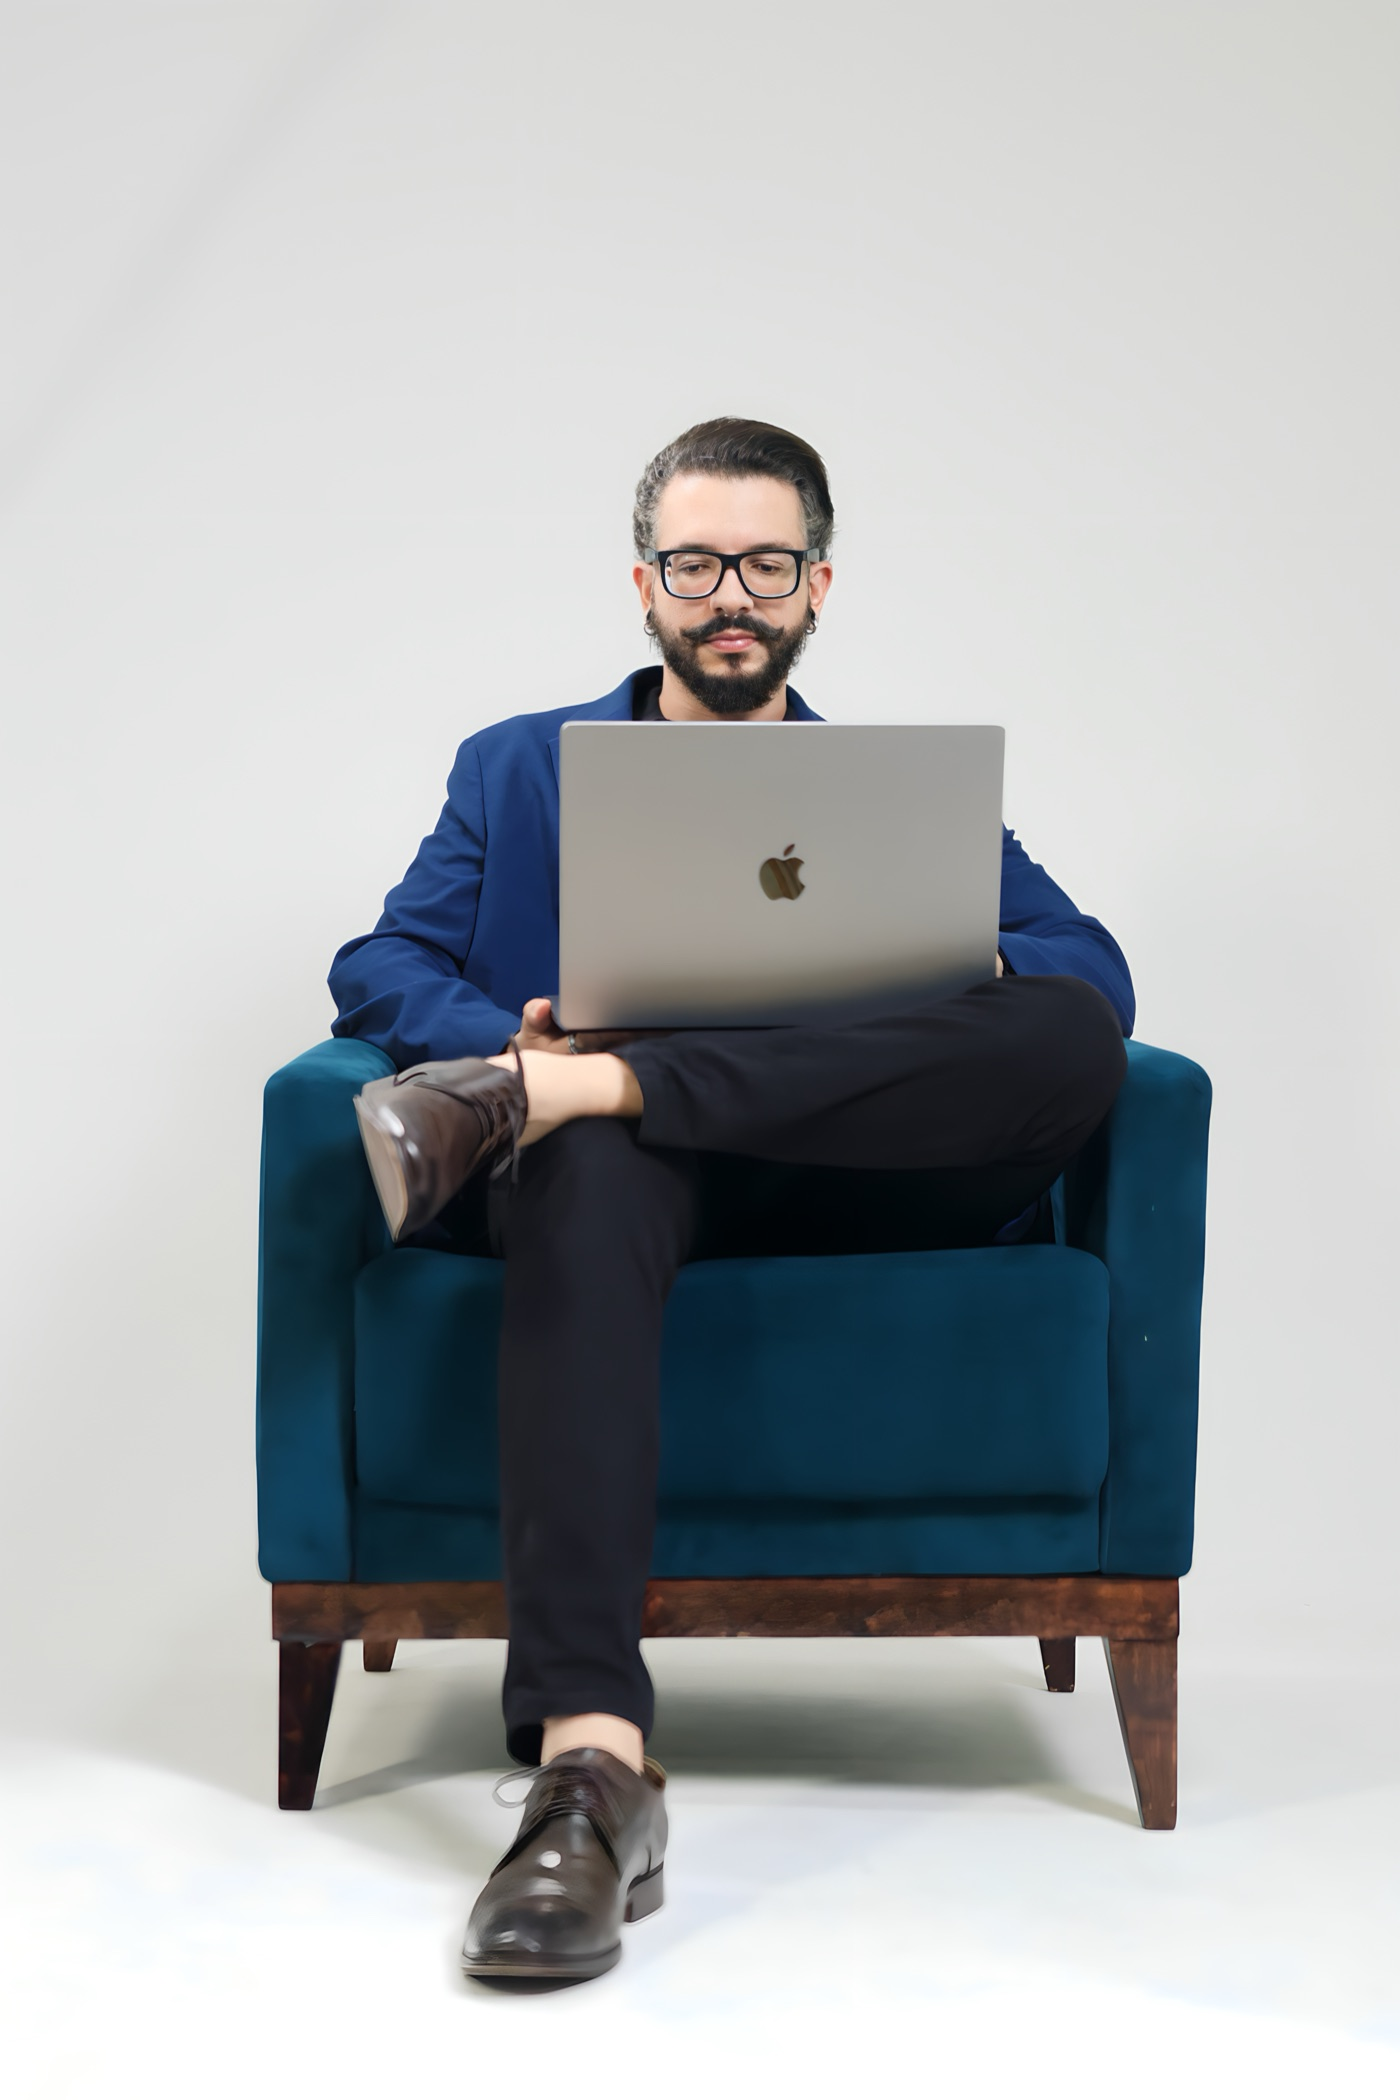
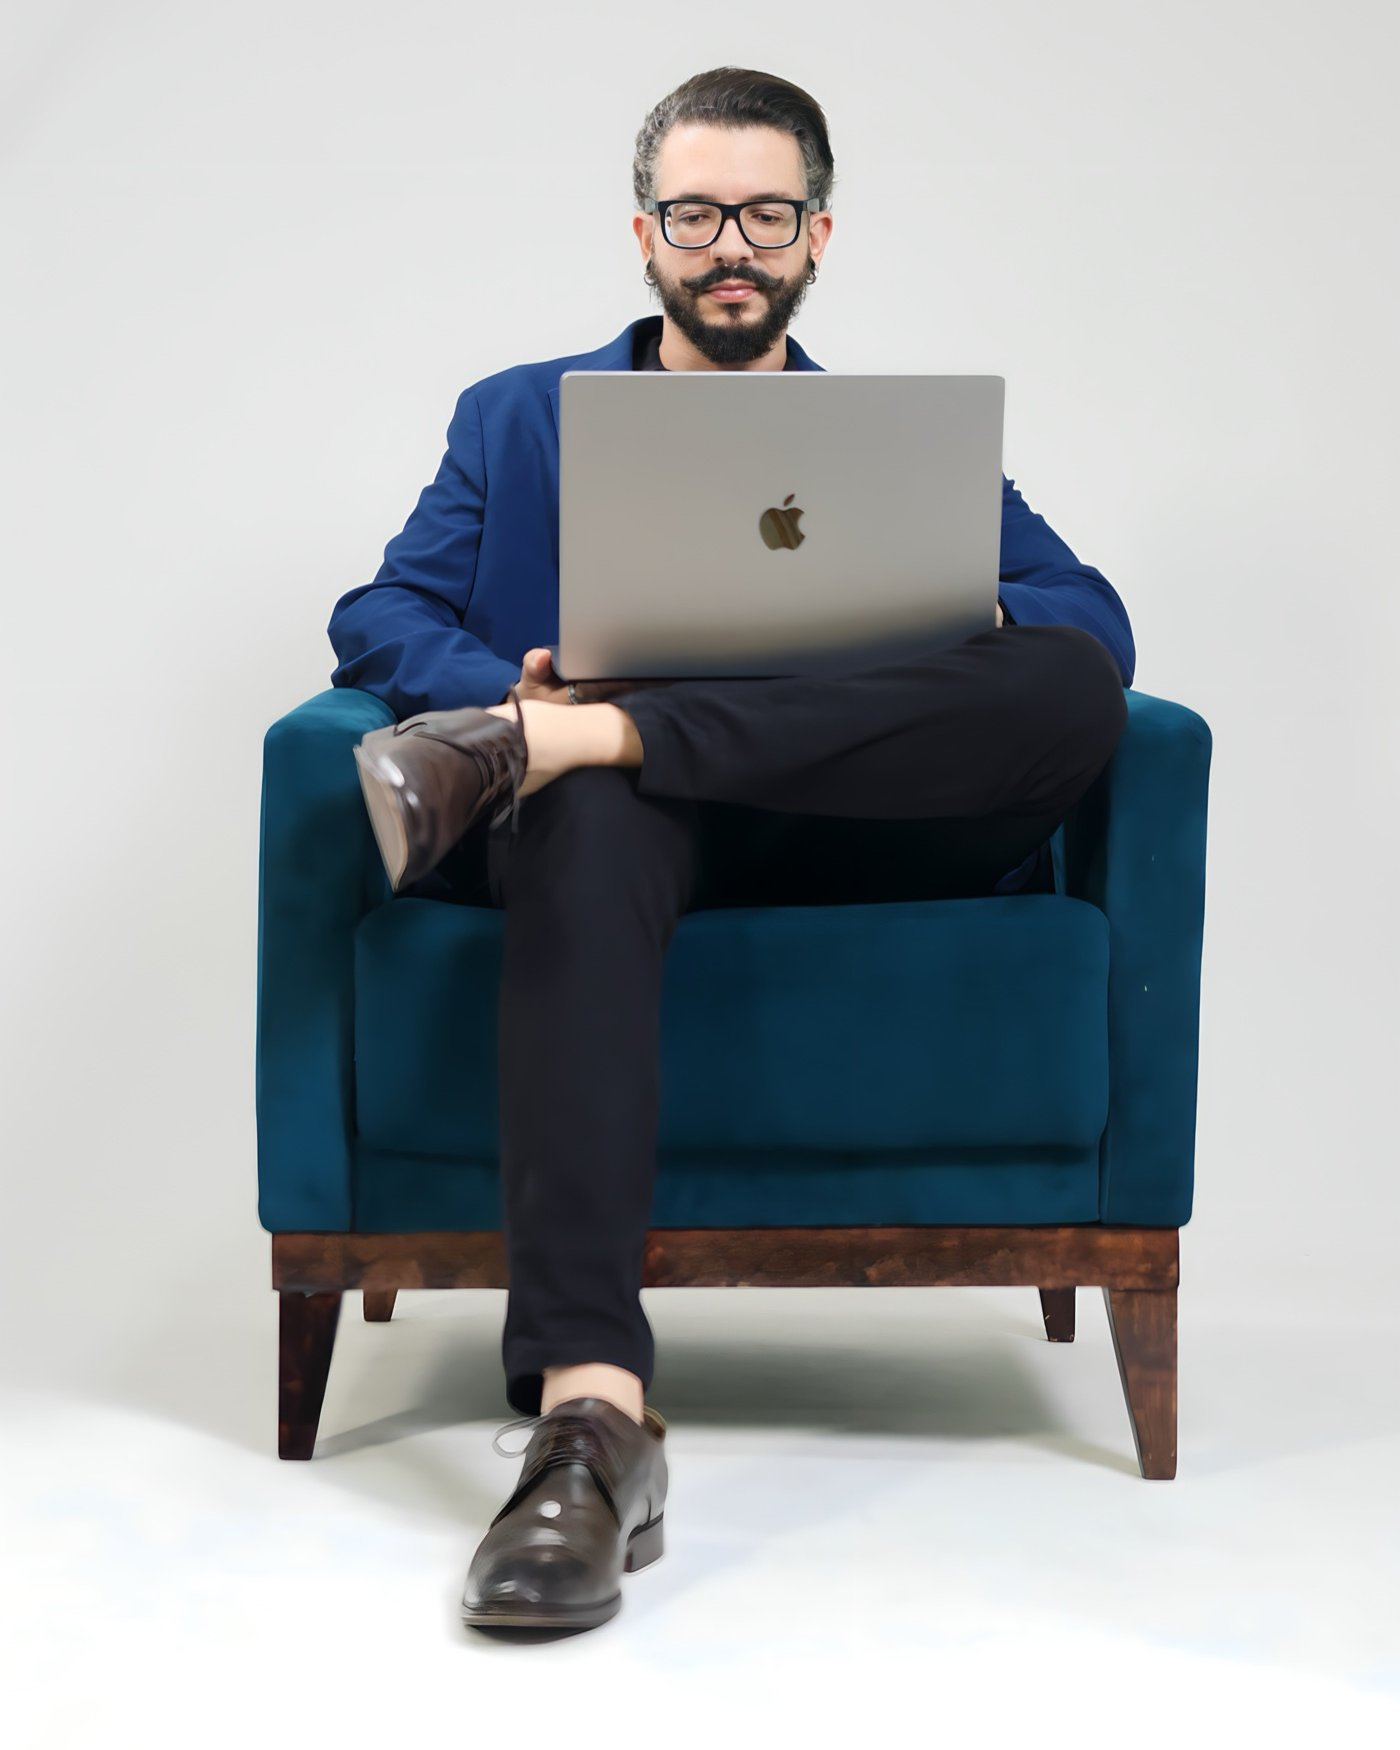
Ajusta enquadramento das fotos: corta headroom, mostra corpo inteiro
Corta topo das fotos (bottom-anchored 4:5) removendo o espaco acima da cabeca e
mantendo os pes. Containers hero/prova/perfil viram 4:5 com object-position center.

diff --git a/index.html b/index.html
@@ -55,8 +55,8 @@ nav .aplicar:hover{background:var(--coral-h)}
 .hero{padding:88px 0 110px;border-top:none}
 .hero .grid{display:grid;grid-template-columns:1fr 1.15fr;gap:56px;align-items:center}
 @media(max-width:860px){.hero .grid{grid-template-columns:1fr}}
-.hero-img{border:1px solid var(--border);border-radius:4px;overflow:hidden;background:var(--bg2);position:relative;aspect-ratio:1/1}
-.hero-img img{width:100%;height:100%;object-fit:cover;object-position:center 22%}
+.hero-img{border:1px solid var(--border);border-radius:4px;overflow:hidden;background:var(--bg2);position:relative;aspect-ratio:4/5}
+.hero-img img{width:100%;height:100%;object-fit:cover;object-position:center center}
 .hero-img .tag{position:absolute;left:14px;bottom:12px;font-family:'IBM Plex Mono',monospace;font-size:10.5px;letter-spacing:.08em;color:var(--ink);text-transform:uppercase}
 .hero-img .tag .dot{color:var(--coral)}
 .badges{display:flex;flex-wrap:wrap;gap:10px;margin:26px 0 30px}
@@ -72,8 +72,8 @@ nav .aplicar:hover{background:var(--coral-h)}
 /* JANELA + PROVA */
 .split{display:grid;grid-template-columns:1fr 1fr;gap:64px;align-items:center}
 @media(max-width:860px){.split{grid-template-columns:1fr}}
-.provaimg{border:1px solid var(--border);border-radius:4px;overflow:hidden;aspect-ratio:4/3}
-.provaimg img{width:100%;height:100%;object-fit:cover;object-position:center 20%}
+.provaimg{border:1px solid var(--border);border-radius:4px;overflow:hidden;aspect-ratio:4/5}
+.provaimg img{width:100%;height:100%;object-fit:cover;object-position:center center}
 .stat-halo{aspect-ratio:1;border-radius:50%;border:2px solid var(--coral);box-shadow:0 0 90px rgba(176,120,255,.35), inset 0 0 60px rgba(176,120,255,.15);display:flex;flex-direction:column;align-items:center;justify-content:center;gap:6px;max-width:400px;margin:0 auto}
 .stat-halo .lbl{font-family:'IBM Plex Mono',monospace;font-size:11px;letter-spacing:.1em;color:var(--ink2);text-transform:uppercase}
 .stat-halo .big{font-family:'Raleway',sans-serif;font-weight:800;font-size:clamp(40px,6vw,64px);color:var(--coral);font-style:italic}
@@ -104,8 +104,8 @@ nav .aplicar:hover{background:var(--coral-h)}
 .mentor{display:grid;grid-template-columns:1fr 1.3fr;gap:48px;align-items:start}
 @media(max-width:860px){.mentor{grid-template-columns:1fr}}
 .mentor + .mentor{margin-top:72px}
-.mentor .foto{border:1px solid var(--border);border-radius:4px;overflow:hidden;position:relative;aspect-ratio:1/1}
-.mentor .foto img{width:100%;height:100%;object-fit:cover;object-position:center 20%}
+.mentor .foto{border:1px solid var(--border);border-radius:4px;overflow:hidden;position:relative;aspect-ratio:4/5}
+.mentor .foto img{width:100%;height:100%;object-fit:cover;object-position:center center}
 .mentor .foto .tag{position:absolute;left:12px;bottom:10px;font-family:'IBM Plex Mono',monospace;font-size:10.5px;letter-spacing:.08em;color:var(--ink);text-transform:uppercase}
 .mentor .foto .tag .dot{color:var(--coral)}
 .mentor h3{font-family:'Raleway',sans-serif;font-weight:800;font-size:30px;margin:6px 0 18px}